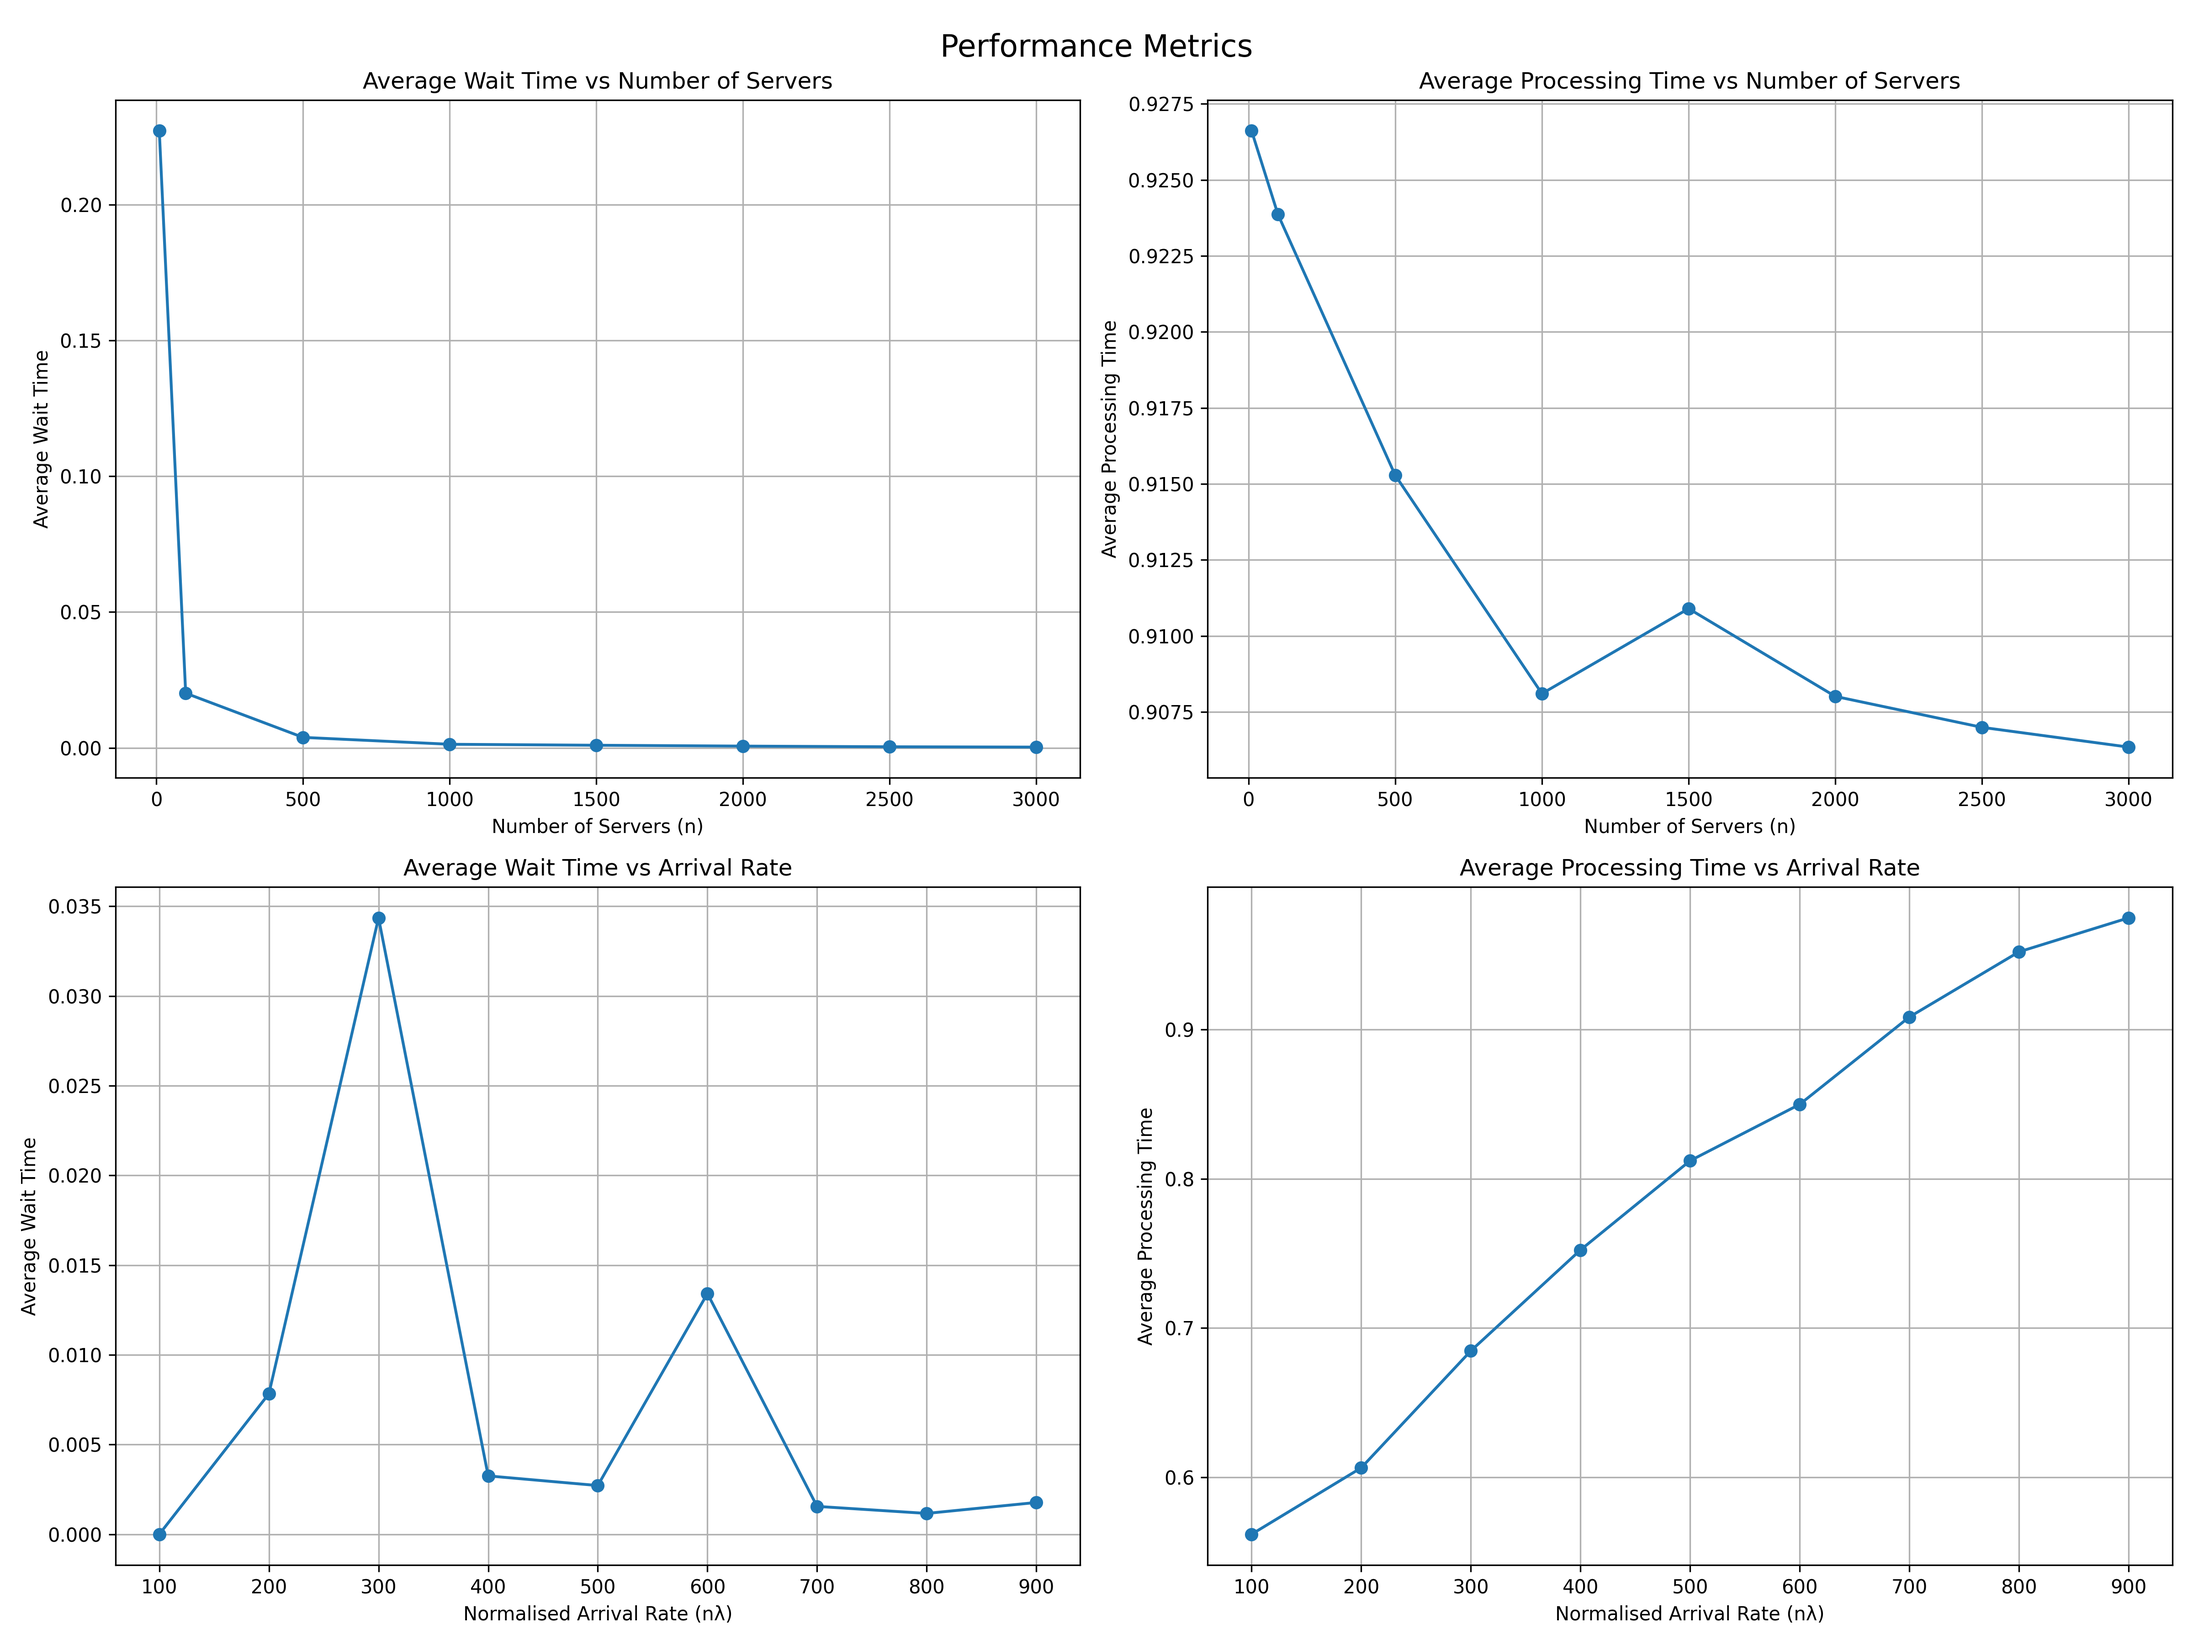
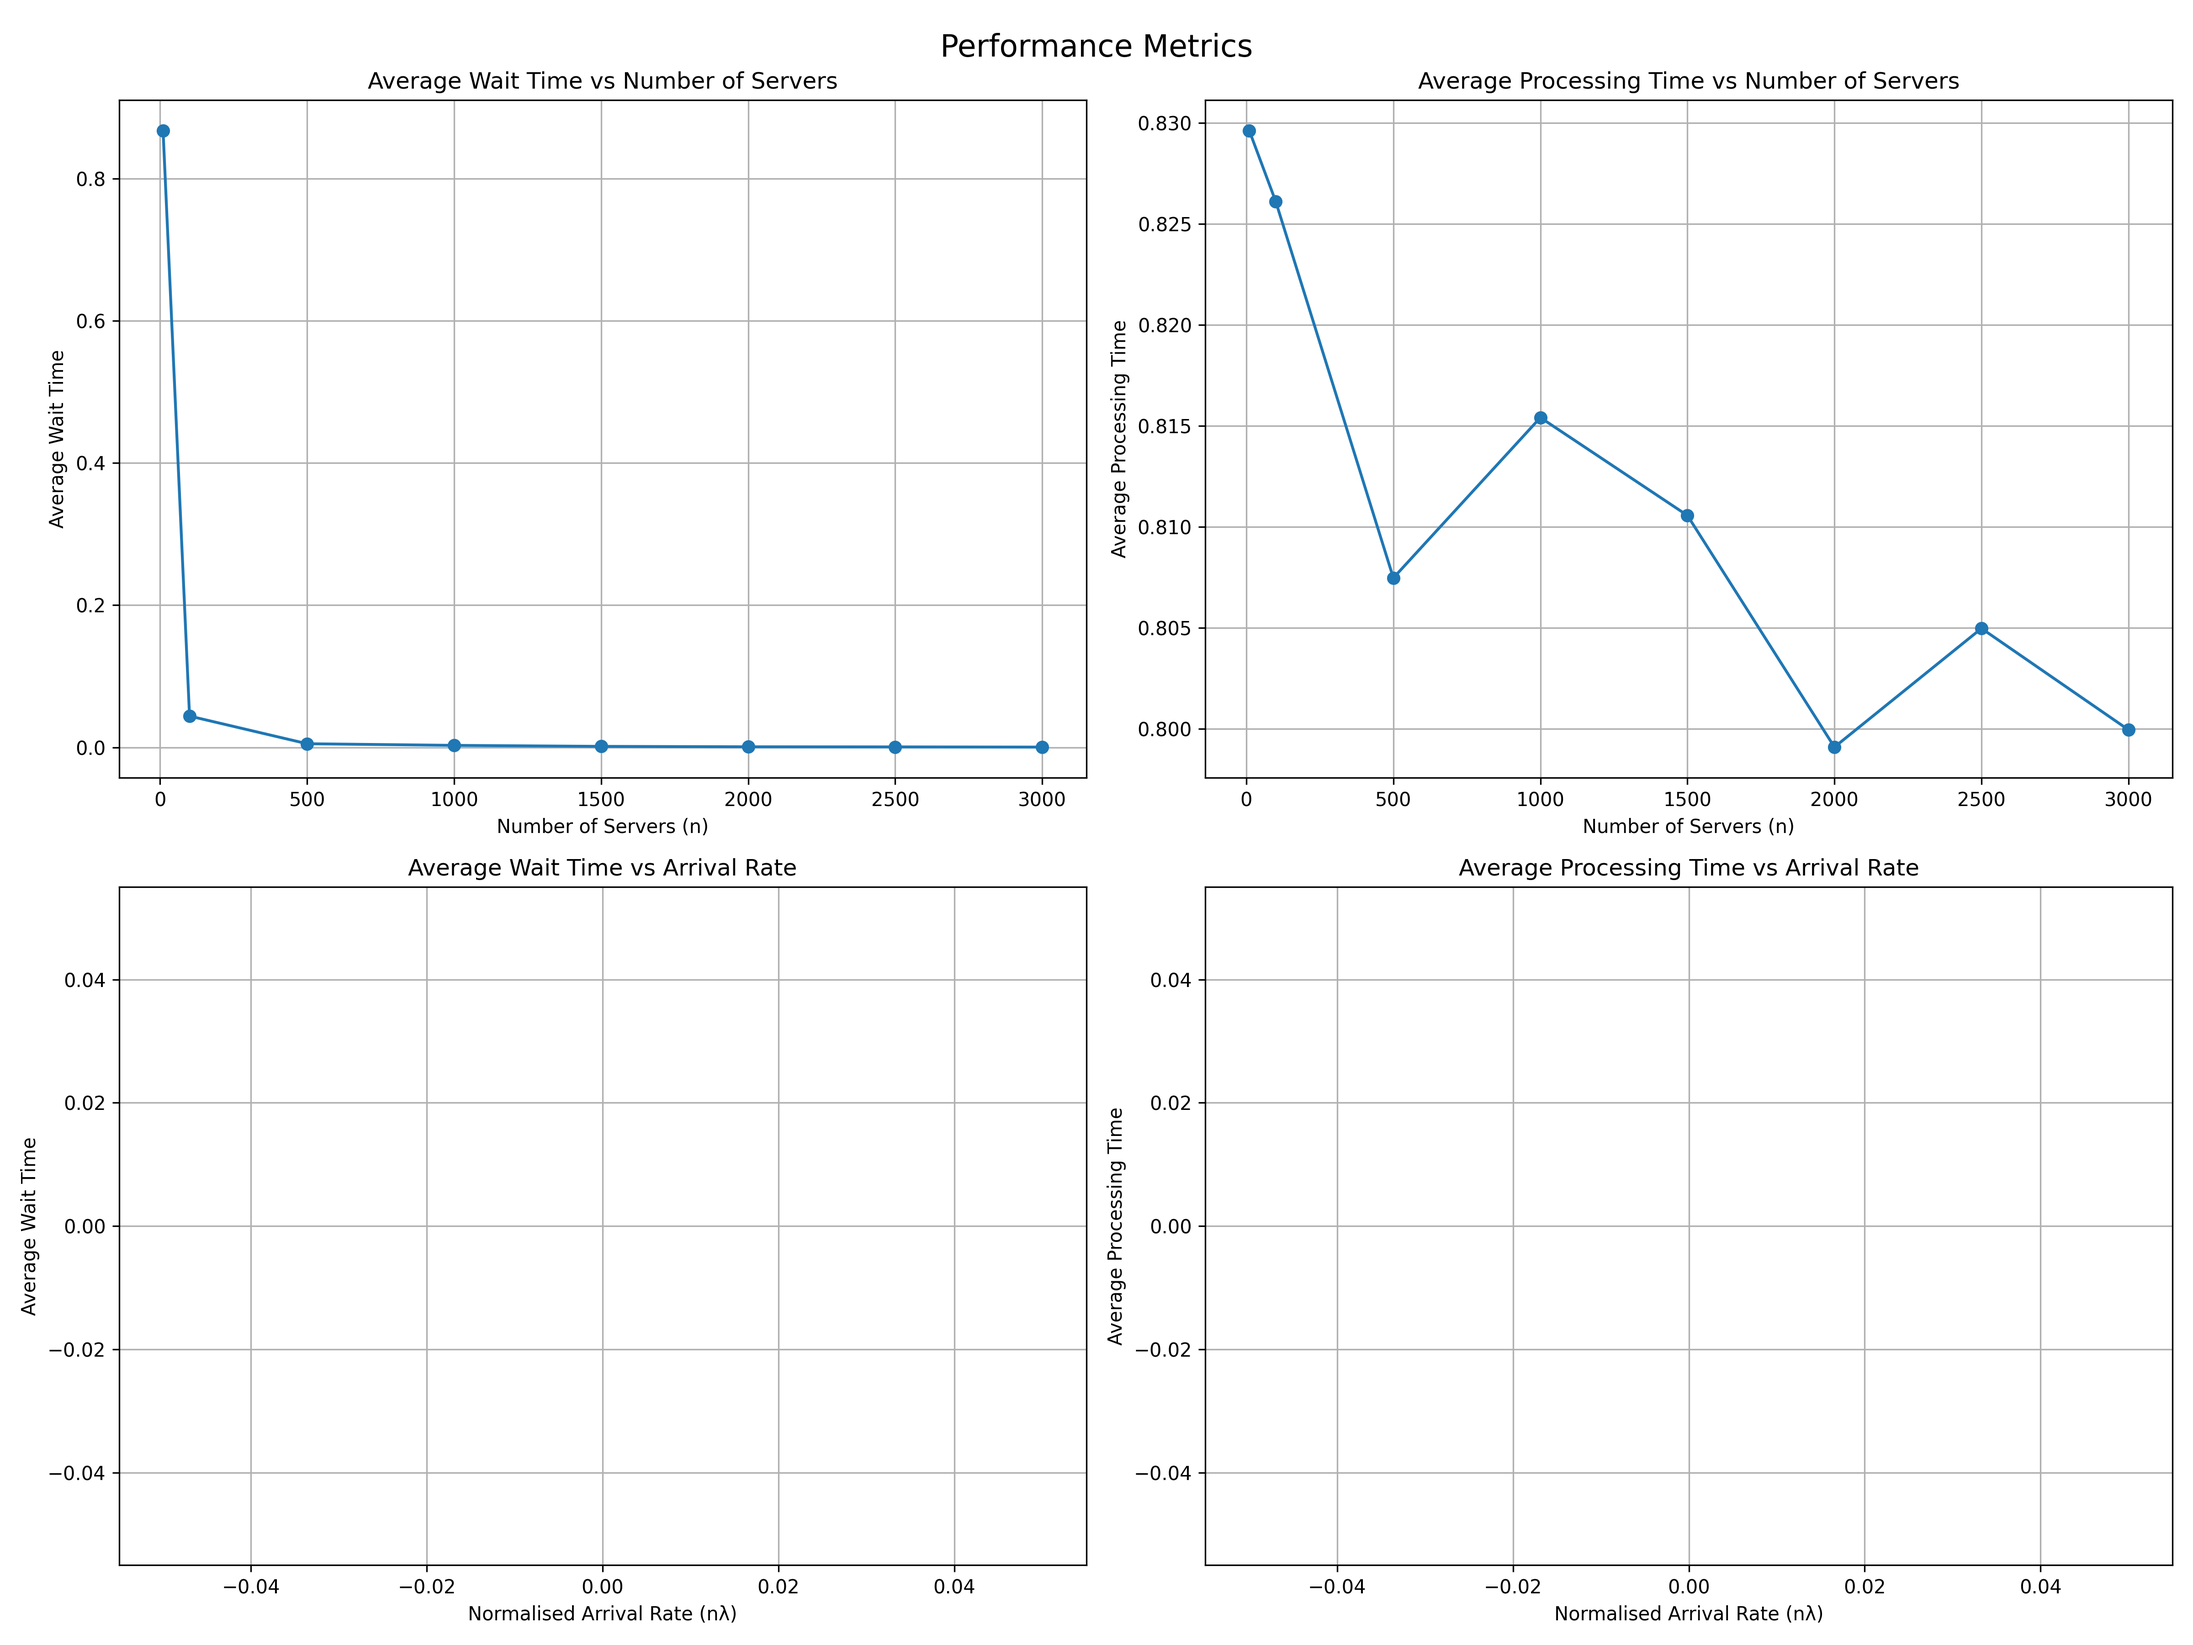
before adding multi-job

diff --git a/jump_model1.py b/jump_model1.py
@@ -3,6 +3,7 @@ import heapq
 from collections import deque, namedtuple
 from pallocationStrat import getOptimalServerNum, init_Pstar
 import math
+from equi_no_repacking import get_equi_no_repacking_servers
 
 
 """
@@ -27,26 +28,26 @@ Job = namedtuple(
 
 
 class JobMarketSim:
-    # def __init__(self, n, beta, alpha, d_n, max_jobs):
-    #     self.n = n  # number of servers
-    #     self.beta = beta
-    #     self.alpha = alpha
-    #     self.d_n = d_n  # max degree of parellelism
-    #     self.max_jobs = max_jobs
+    def __init__(self, n, beta, alpha, d_n, max_jobs):
+        self.n = n  # number of servers
+        self.beta = beta
+        self.alpha = alpha
+        self.d_n = d_n  # max degree of parellelism
+        self.max_jobs = max_jobs
 
-    #     # calculate arrival rate of jobs
-    #     self.arrival_rate = self.n * (1 - (self.beta * self.n ** (-self.alpha)))
+        # calculate arrival rate of jobs
+        self.arrival_rate = self.n * (1 - (self.beta * self.n ** (-self.alpha)))
 
-    #     self.time = 0  # to simulatee time units passing
-    #     self.servers = [0] * n  # keep track of the time a server is occupied untill
-    #     self.queue = deque()
-    #     self.events = []  # minheap for event scheduling
+        self.time = 0  # to simulatee time units passing
+        self.servers = [0] * n  # keep track of the time a server is occupied untill
+        self.queue = deque()
+        self.events = []  # minheap for event scheduling
 
-    #     # monitoring stats
-    #     self.jobs_arrived = 0
-    #     self.jobs_processed = 0
-    #     self.total_wait_time = 0
-    #     self.total_processing_time = 0
+        # monitoring stats
+        self.jobs_arrived = 0
+        self.jobs_processed = 0
+        self.total_wait_time = 0
+        self.total_processing_time = 0
 
     # constructor with max jobs as a function of n
     def __init__(self, n, beta, alpha, d_n):
@@ -56,8 +57,13 @@ class JobMarketSim:
         self.d_n = d_n  # max degree of parellelism
         self.max_jobs = n * 100
 
+        self.total_jobs_in_system = 0
+        self.n_yt_denomiator = 0
+        self.n_yt = 0
+
         # calculate arrival rate of jobs
         self.arrival_rate = self.n * (1 - (self.beta * self.n ** (-self.alpha)))
+        # self.arrival_rate = 0.5 * self.n
 
         self.time = 0  # to simulatee time units passing
         self.servers = [0] * n  # keep track of the time a server is occupied untill
@@ -87,8 +93,8 @@ class JobMarketSim:
     """
 
     def get_speedup_factor(self, allocated_servers):
-        return allocated_servers**0.25  # sub-linear
-        # return allocated_servers  # linear
+        # return allocated_servers**0.25  # sub-linear
+        return allocated_servers  # linear
 
     """
     simple greedy allocation scheme:
@@ -100,11 +106,13 @@ class JobMarketSim:
         available_servers = sum(
             1 for server_time in self.servers if server_time < self.time
         )
-        optimal = getOptimalServerNum(self.p1)
+        # optimal = getOptimalServerNum(self.p1)
+
+        optimal = get_equi_no_repacking_servers(self.n_yt)
         # print("optimal ", optimal)
 
         # return min(available_servers, self.d_n) # greedy allocation scheme
-        return min(available_servers, optimal)  # P* allocation scheme
+        return min(available_servers, optimal, self.d_n)  # P* allocation scheme
 
     """
     - calculate free servers
@@ -156,9 +164,18 @@ class JobMarketSim:
             self.time, event_type = heapq.heappop(self.events)
 
             if event_type == "arrival":
+                self.total_jobs_in_system += 1
                 self.jobs_arrived += 1
                 # create new Job tuple
                 new_job = Job(self.time, self.generate_execution_time(), 0, None, None)
+
+                # if no queue, reset n_yt
+                if len(self.queue) == 0:
+                    self.n_yt_denomiator = self.total_jobs_in_system
+                else:
+                    self.n_yt_denomiator += 1
+
+                self.n_yt = self.n / self.n_yt_denomiator
 
                 self.process_job(new_job)
 
@@ -168,6 +185,7 @@ class JobMarketSim:
 
             # if jobs finishes, means servers are free so can process next
             elif event_type == "finish":
+                self.total_jobs_in_system -= 1
                 if self.queue:
                     self.process_job(self.queue.popleft())
 

diff --git a/pallocationStrat.py b/pallocationStrat.py
@@ -2,8 +2,8 @@
 
 import random
 
-arrival_rate = 0.37796447300922725  # self.arrival_rate/self.n
-d_n = 10
+# arrival_rate = 0.5  # self.arrival_rate/self.n
+# d_n = 10
 
 
 # def speedUp(allocated_servers):
@@ -14,7 +14,7 @@ def getPStarVector(d_n, arrival_rate, speedUp):
     slopes = []
     for i in range(1, d_n + 1):
         slopes.append(speedUp(i) / i)
-    # print("slopes", slopes)
+    print("slopes", slopes)
     # case 1: lambda below last slope
     # print(f"arrival rate is {arrival_rate} last P_star is {slopes[-1]}")
     if arrival_rate < slopes[-1]:
@@ -50,7 +50,7 @@ def getPStarVector(d_n, arrival_rate, speedUp):
                     (slopes[i] - arrival_rate) / (slopes[i] - slopes[i + 1]) / (i + 2)
                 )
 
-        # print(y_star)
+    print("ystar", y_star)
 
     p_star = [0] * d_n
     for i, x in enumerate(y_star):
@@ -93,3 +93,19 @@ def getOptimalServerNum(p1):
 # allocatedServers = getOptimalServerNum(p1)
 
 # print(allocatedServers)
+
+
+# myparams = {"n": n, "beta": 0.3, "alpha": 0, "d_n": 10}
+
+# print(f"sim starting: {time.time()}")
+# sim = JobMarketSim(**myparams)
+
+# sim.run_simulation()
+# print(f"sim over: {time.time()}")
+
+# print(f"\nFinal stats:")
+# print(f"Total jobs arrived: {sim.jobs_arrived}")
+# print(f"Total jobs processed: {sim.jobs_processed}")
+# print(f"Jobs in queue: {len(sim.queue)}")
+# print(f"Average wait time: {sim.total_wait_time / sim.jobs_processed:.2f}")
+# print(f"Average processing time: {sim.total_processing_time / sim.jobs_processed:.2f}")

diff --git a/hetroAlloc.py b/hetroAlloc.py
@@ -1,0 +1,52 @@
+import numpy as np
+from scipy import optimize
+from scipy.optimize import linprog
+
+
+def solve_optimal_allocation(d_n, arrival_rate, speedup_factors):
+    # Objective function coefficients (minimize sum of y_i)
+    c = np.ones(d_n)  # We want to minimize sum(y_i)
+
+    # Coefficients matrix for constraints
+    A = np.zeros((2, d_n))
+
+    # Constraint 1: sum(s_i * y_i) = arrival_rate
+    A[0, :] = speedup_factors
+
+    # Constraint 2: sum(i * y_i) <= 1
+    A[1, :] = np.arange(1, d_n + 1)
+
+    # Bounds for each variable y_i
+    bounds = [(0, None) for _ in range(d_n)]
+
+    # Right-hand side values for constraints
+    b = [arrival_rate, 1]  # Equals to arrival rate, and utilization <= 1
+
+    # Solve the linear program
+    res = linprog(
+        c,
+        A_eq=[A[0]],
+        b_eq=[b[0]],
+        A_ub=[A[1]],
+        b_ub=[b[1]],
+        bounds=bounds,
+        method="highs",
+    )
+
+    # Check if the optimization was successful
+    if res.success:
+        print(f"Optimal y values: {res.x}")
+        return res.x  # Optimal allocation probabilities
+    else:
+        print("Optimization failed.")
+        return None
+
+
+# testing:im
+d_n = 10  # Maximum degree of parallelism
+arrival_rate = 0.8  # Example arrival rate
+speedup_factors = [
+    i**0.5 for i in range(1, d_n + 1)
+]  # Example concave speed-up function
+
+optimal_allocation = solve_optimal_allocation(d_n, arrival_rate, speedup_factors)

diff --git a/hetroJobs.py b/hetroJobs.py
@@ -1,0 +1,43 @@
+import numpy as np
+from Math import random
+from jump_model1 import Job
+import time
+
+job_classes = {
+    "class_1": {
+        "execution_time": lambda: np.random.exponential(1),
+        "speedup": lambda x: x**0.5,
+    },
+    "class_2": {
+        "execution_time": lambda: np.random.exponential(2),
+        "speedup": lambda x: np.log(x + 1),
+    },
+    "class_3": {
+        "execution_time": lambda: np.random.exponential(3),
+        "speedup": lambda x: np.log(x + 1),
+    },
+    "class_4": {
+        "execution_time": lambda: np.random.exponential(4),
+        "speedup": lambda x: np.log(x + 1),
+    },
+}
+
+
+def generate_job():
+    job_class = random.choice(list(job_classes.keys()))  # Randomly choose a job class
+    execution_time = job_classes[job_class]["execution_time"]()
+    return Job(
+        arrival_time=current_time, execution_time=execution_time, job_class=job_class
+    )
+
+
+def allocate_servers(job):
+    job_class = job.job_class
+    speedup_function = job_classes[job_class]["speedup"]
+    available_servers = sum(
+        1 for server_time in self.servers if server_time < self.time
+    )
+    optimal_servers = min(
+        available_servers, self.d_n
+    )  # Example: use a simple greedy scheme
+    return min(available_servers, optimal_servers)

diff --git a/equi_no_repacking.py b/equi_no_repacking.py
@@ -1,0 +1,17 @@
+import math
+import random
+
+
+# x is n/y(t)
+def get_equi_no_repacking_servers(x):
+    floor_x = math.floor(x)
+    ceil_x = math.ceil(x)
+
+    # if x is not a fraction
+    if floor_x == ceil_x:
+        return floor_x
+
+    # if x is fraction use probability to allocate
+    else:
+        p = ceil_x - x
+        return floor_x if random.random() < p else ceil_x

diff --git a/mainplot.py b/mainplot.py
@@ -93,7 +93,7 @@ create_subplot(
 
 # Adjust layout and save the figure
 plt.tight_layout()
-plt.savefig("p* alloc algo with 0.25 speedup.png", dpi=300)
+plt.savefig("equi_no_repack_lin_speedup.png", dpi=300)
 plt.close()
 
 print(
